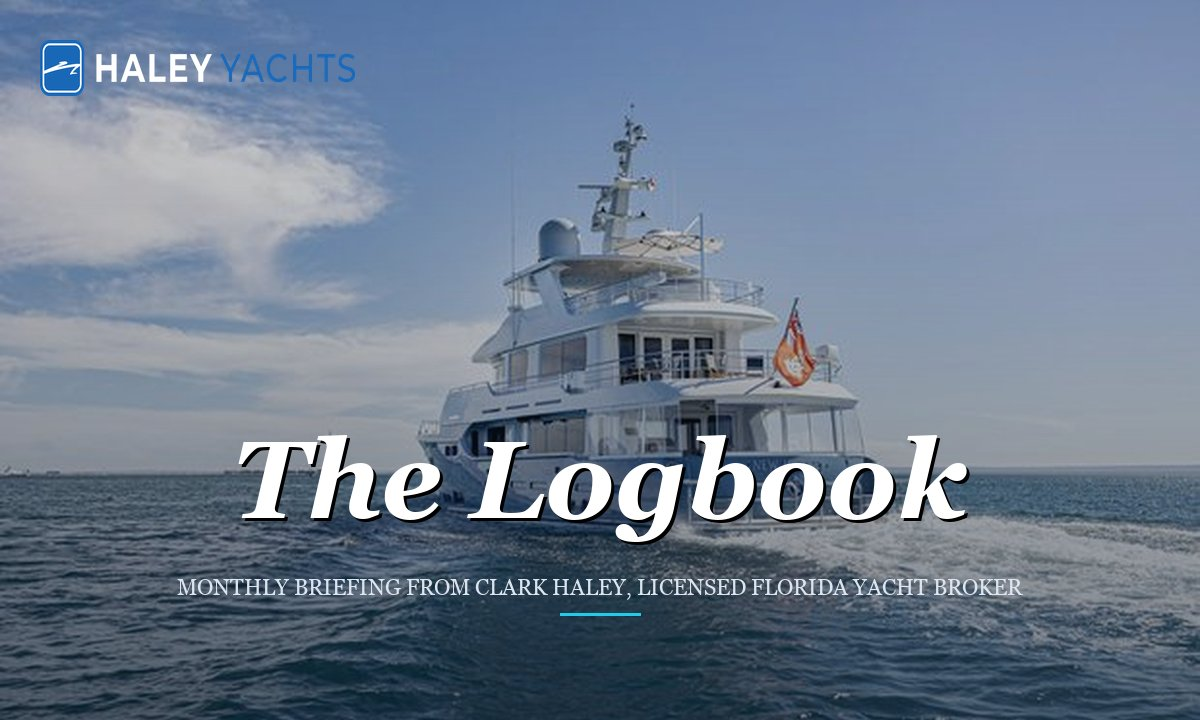
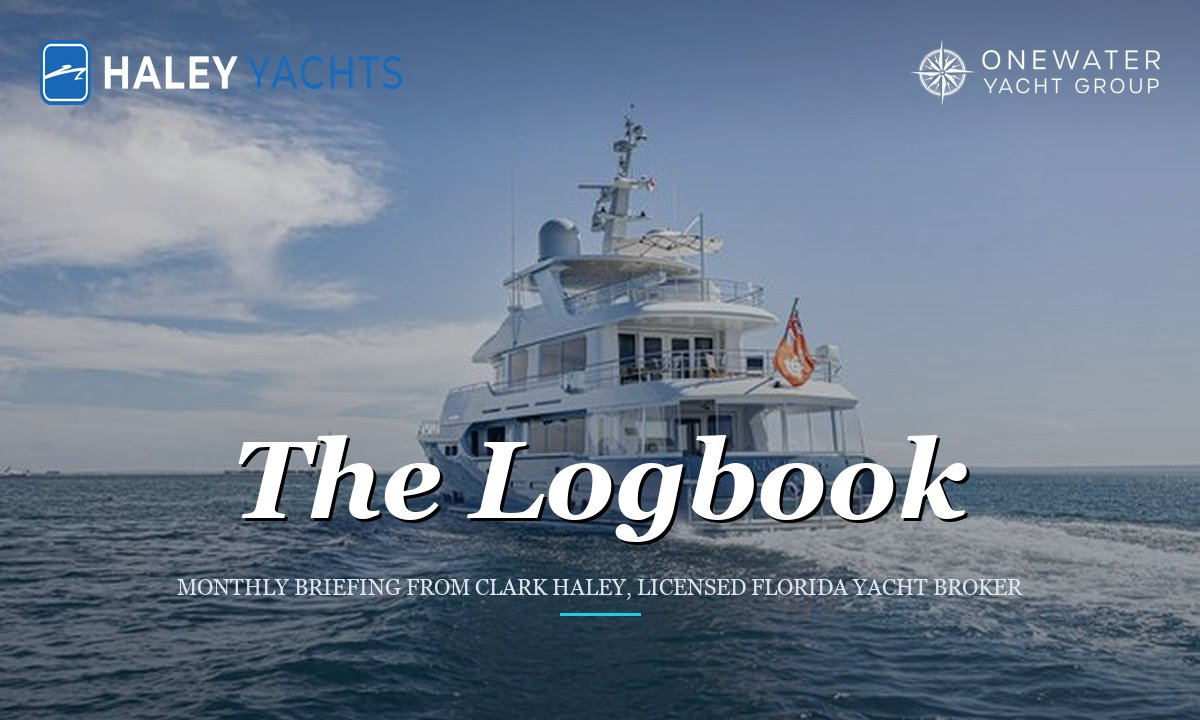
newsletter

Changed region(s): [[0.0, 0.0, 1.0, 0.1528]]

diff --git a/email-templates/bake-masthead.py b/email-templates/bake-masthead.py
@@ -24,13 +24,14 @@ from PIL import Image, ImageDraw, ImageFont
 DEFAULTS = {
     "photo":  "haleyyachts-website/images/email/nordhavn80.jpeg",
     "logo":   "haleyyachts-website/images/brand/haleyyachtslogo-reverse@2x.png",
+    "cobrand":"haleyyachts-website/images/email/owyg-banner-reverse.png",
     "out":    "haleyyachts-website/images/email/logbook-masthead.jpg",
     "title":  "The Logbook",
     "tagline":"MONTHLY BRIEFING FROM CLARK HALEY, LICENSED FLORIDA YACHT BROKER",
 }
 
 W, H = 1200, 720
-LOGO_W = 315           # +12.5% over original 280px size, per Clark
+LOGO_HEIGHT = 65       # logo HEIGHT - both Haley Yachts and OneWater scale to this
 TITLE_PT = 110
 TAGLINE_PT = 22
 ACCENT_PT_W = 80
@@ -41,6 +42,7 @@ def main() -> int:
     p = argparse.ArgumentParser()
     p.add_argument("--photo", default=DEFAULTS["photo"])
     p.add_argument("--logo",  default=DEFAULTS["logo"])
+    p.add_argument("--cobrand", default=DEFAULTS["cobrand"], help="Path to OneWater (or other co-brand) logo, white reverse PNG")
     p.add_argument("--out",   default=DEFAULTS["out"])
     p.add_argument("--title", default=DEFAULTS["title"])
     p.add_argument("--tagline", default=DEFAULTS["tagline"])
@@ -53,17 +55,34 @@ def main() -> int:
     nw, nh = photo.size
     photo = photo.crop(((nw - W) // 2, (nh - H) // 2, (nw + W) // 2, (nh + H) // 2))
 
+    # Darkening gradient: heavier at the top so white logos read cleanly even
+    # against bright sky photos, plus heavier at the bottom for the title.
     overlay = Image.new("RGBA", (W, H), (0, 0, 0, 0))
     od = ImageDraw.Draw(overlay)
     for y in range(H):
-        a = int(40 + (140 - 40) * ((y / H) ** 1.4))
+        t = y / H
+        if t < 0.20:
+            # Top 20%: dim from 95 down to 50
+            a = int(95 + (50 - 95) * (t / 0.20))
+        else:
+            # Below 20%: usual gradient from 50 up to 140
+            a = int(50 + (140 - 50) * (((t - 0.20) / 0.80) ** 1.4))
         od.line([(0, y), (W, y)], fill=(8, 22, 40, a))
     canvas = Image.alpha_composite(photo.convert("RGBA"), overlay)
 
+    # Place both logos top-aligned at equal height so they read as a co-brand pair.
+    margin = 40
     logo = Image.open(args.logo).convert("RGBA")
     lw, lh = logo.size
-    logo = logo.resize((LOGO_W, int(lh * LOGO_W / lw)), Image.LANCZOS)
-    canvas.paste(logo, (40, 40), logo)
+    new_lw = int(lw * LOGO_HEIGHT / lh)
+    logo = logo.resize((new_lw, LOGO_HEIGHT), Image.LANCZOS)
+    canvas.paste(logo, (margin, margin), logo)
+
+    cobrand = Image.open(args.cobrand).convert("RGBA")
+    cw, ch = cobrand.size
+    new_cw = int(cw * LOGO_HEIGHT / ch)
+    cobrand = cobrand.resize((new_cw, LOGO_HEIGHT), Image.LANCZOS)
+    canvas.paste(cobrand, (W - margin - new_cw, margin), cobrand)
 
     draw = ImageDraw.Draw(canvas)
     title_font = ImageFont.truetype(
